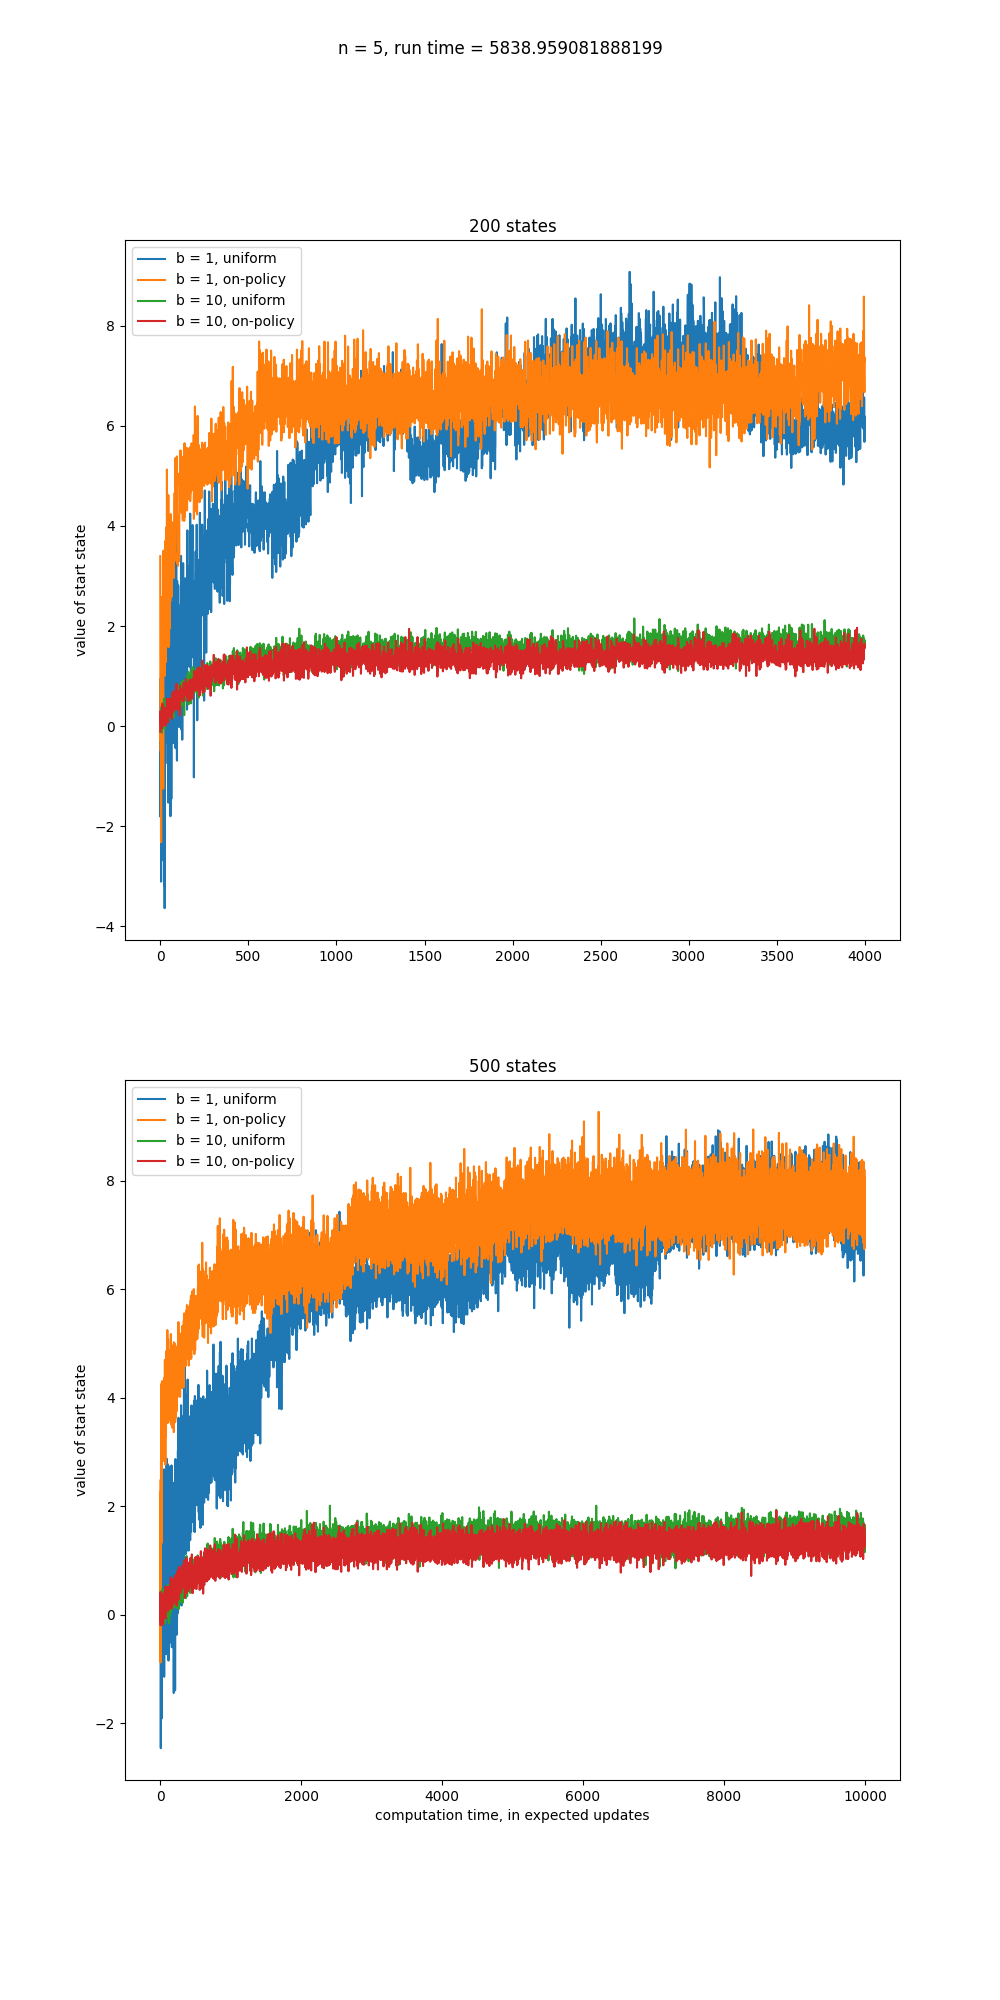
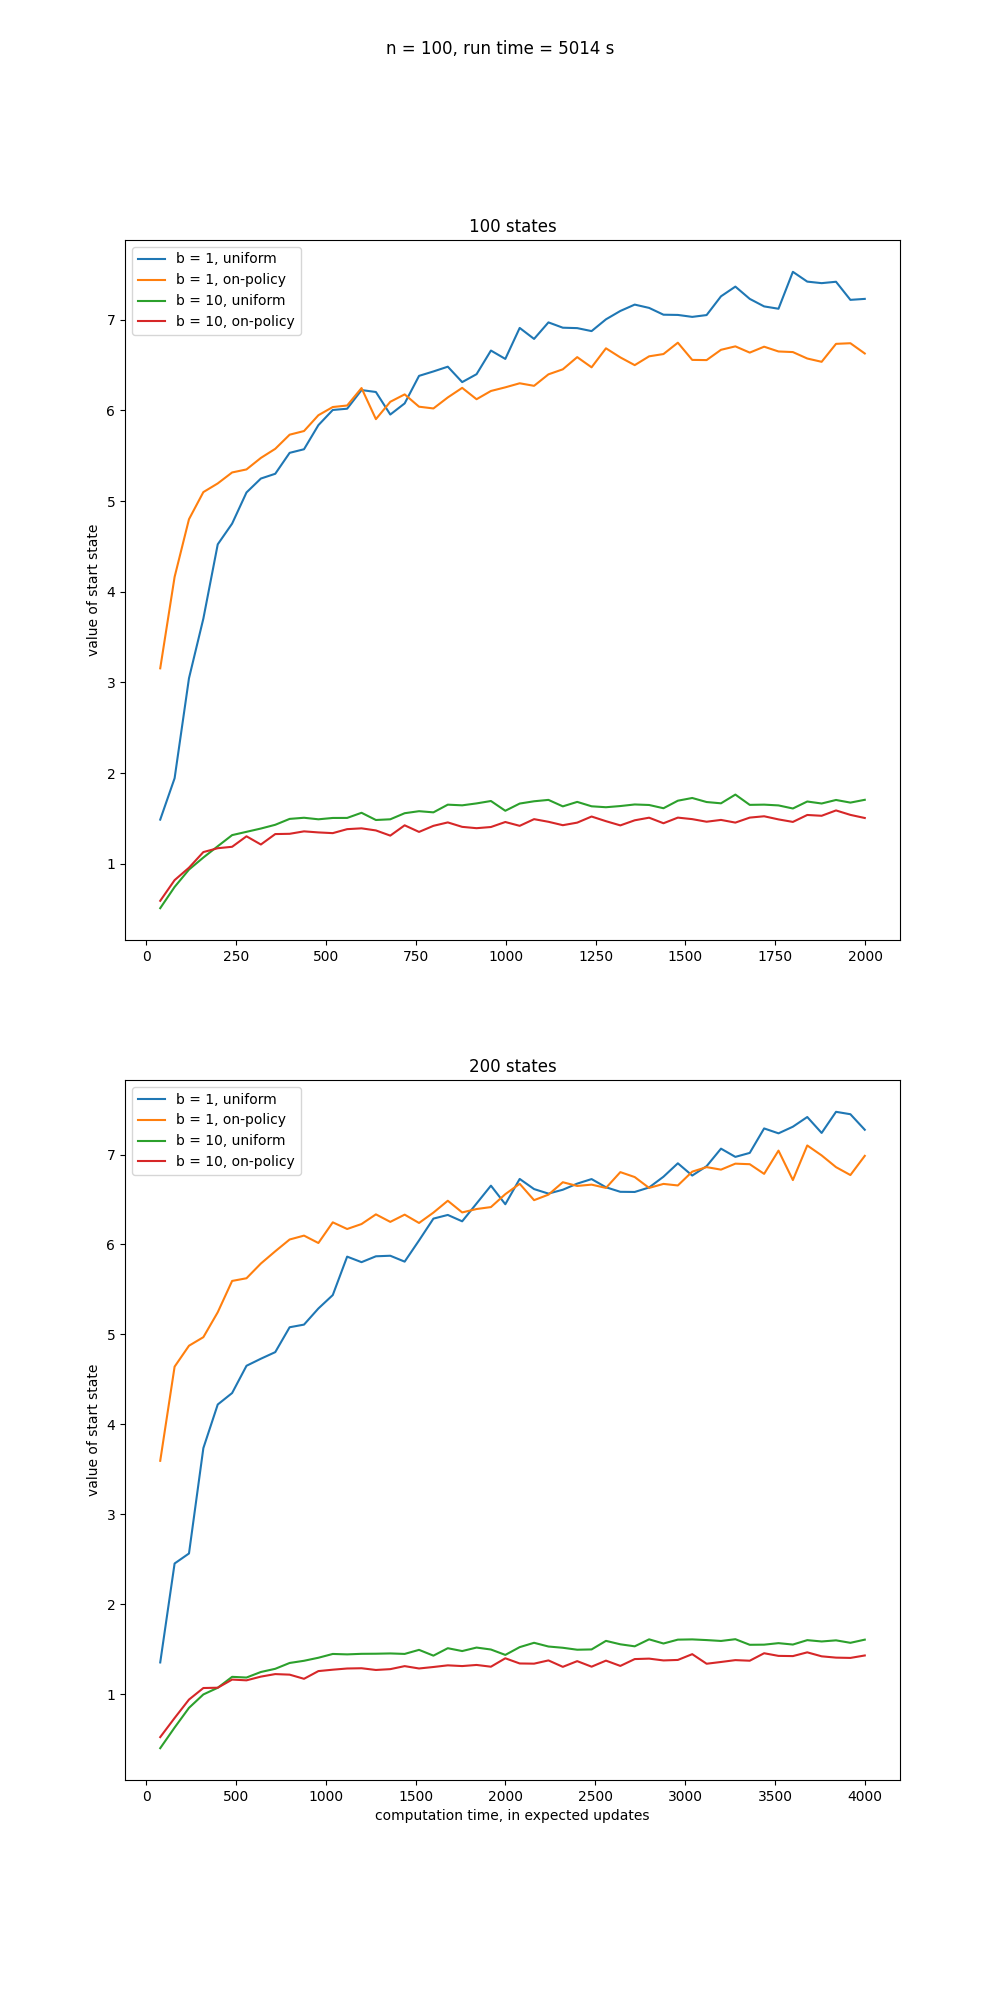
Trajectory Sampling complete

diff --git a/CH08/Trajectory Sampling.py b/CH08/Trajectory Sampling.py
@@ -46,7 +46,7 @@ class Agent:
         self.discount = 1
         self.eps = 0.1
         self.envi = Environment(self.n_states, self.b, self.max_steps)
-        self.eval_frequency = 100
+        self.eval_frequency = max_steps / 50
 
         self.policy = np.zeros(self.n_states, dtype=int)
         self.state_action_values = np.zeros((self.n_states, self.envi.n_actions))
@@ -106,7 +106,7 @@ class Agent:
             self.state_action_values[state, action] = (1 - self.envi.termination_prob) * \
                 np.average(rewards + self.discount * np.max(self.state_action_values[next_states, :], axis=1))
 
-            if (step + 1) % self.eval_frequency:
+            if (step + 1) % self.eval_frequency == 0:
                 steps.append(step)
                 performance.append(self.evaluate_policy())
         return steps, performance
@@ -127,7 +127,7 @@ class Agent:
             self.state_action_values[state, action] = (1 - self.envi.termination_prob) * \
                 np.average(rewards + self.discount * np.max(self.state_action_values[next_states, :], axis=1))
 
-            if (step + 1) % self.eval_frequency:
+            if (step + 1) % self.eval_frequency == 0:
                 steps.append(step)
                 performance.append(self.evaluate_policy())
 
@@ -135,16 +135,15 @@ class Agent:
 
 
 def figure():
-    num_states = [200, 500]
+    num_states = [100, 200]
     times = 20
     branch = [1, 10]
-    repeat = 5
-
+    repeat = 100
     start_time = time.time()
 
-    plt.figure(figsize=(10, 20))
+    plt.figure(figsize=(10, 10 * len(num_states)))
     for i, n in enumerate(num_states):
-        plt.subplot(2, 1, i + 1)
+        plt.subplot(len(num_states), 1, i + 1)
         for b in branch:
             s = None
             value_u, value_op = [], []
@@ -159,13 +158,12 @@ def figure():
             plt.plot(s, value_u, label=f'b = {b}, uniform')
             plt.plot(s, value_op, label=f'b = {b}, on-policy')
         plt.title(f'{n} states')
-
         plt.ylabel('value of start state')
         plt.legend()
 
-    plt.subplot(2, 1, 2)
+    plt.subplot(len(num_states), 1, len(num_states))
     plt.xlabel('computation time, in expected updates')
-    plt.suptitle(f'n = {repeat}, run time = {time.time()-start_time}')
+    plt.suptitle(f'n = {repeat}, run time = {int(time.time()-start_time)} s')
     plt.savefig('images/figure_8_8.png')
     plt.close()
 
